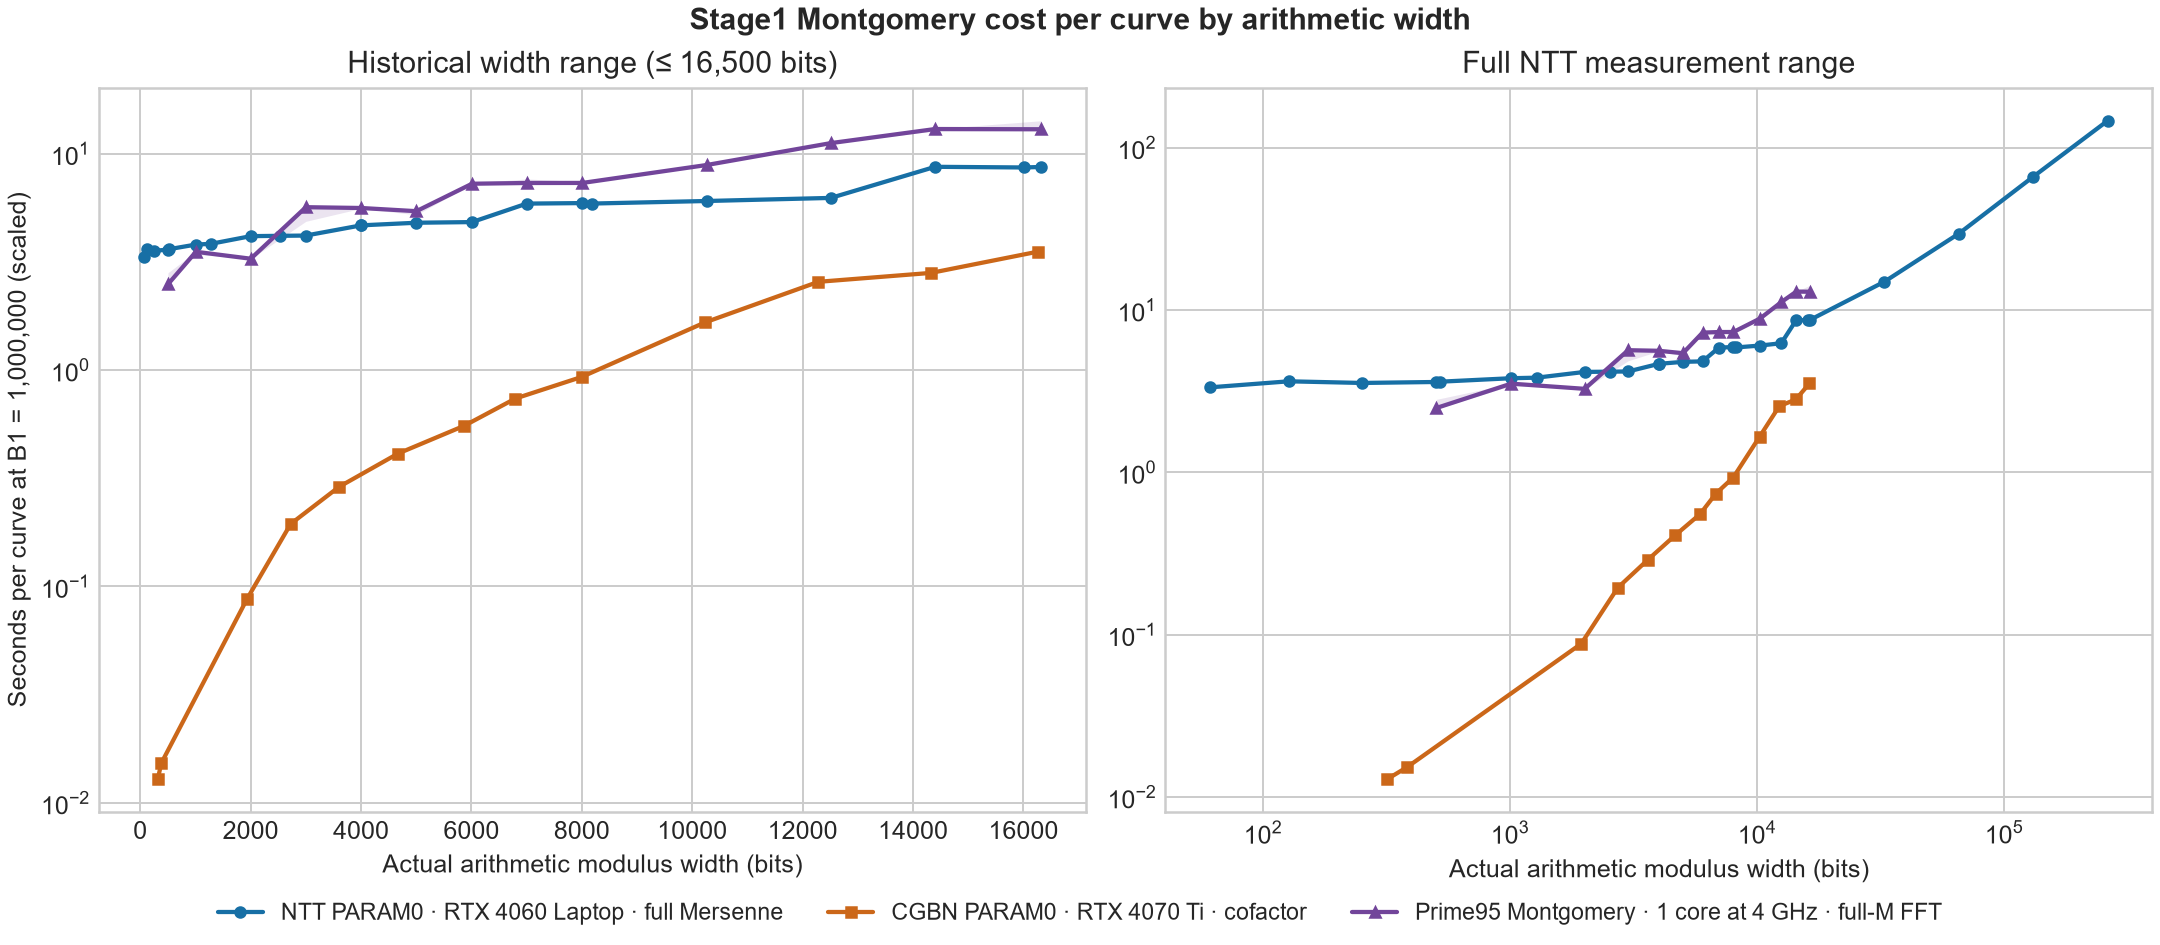
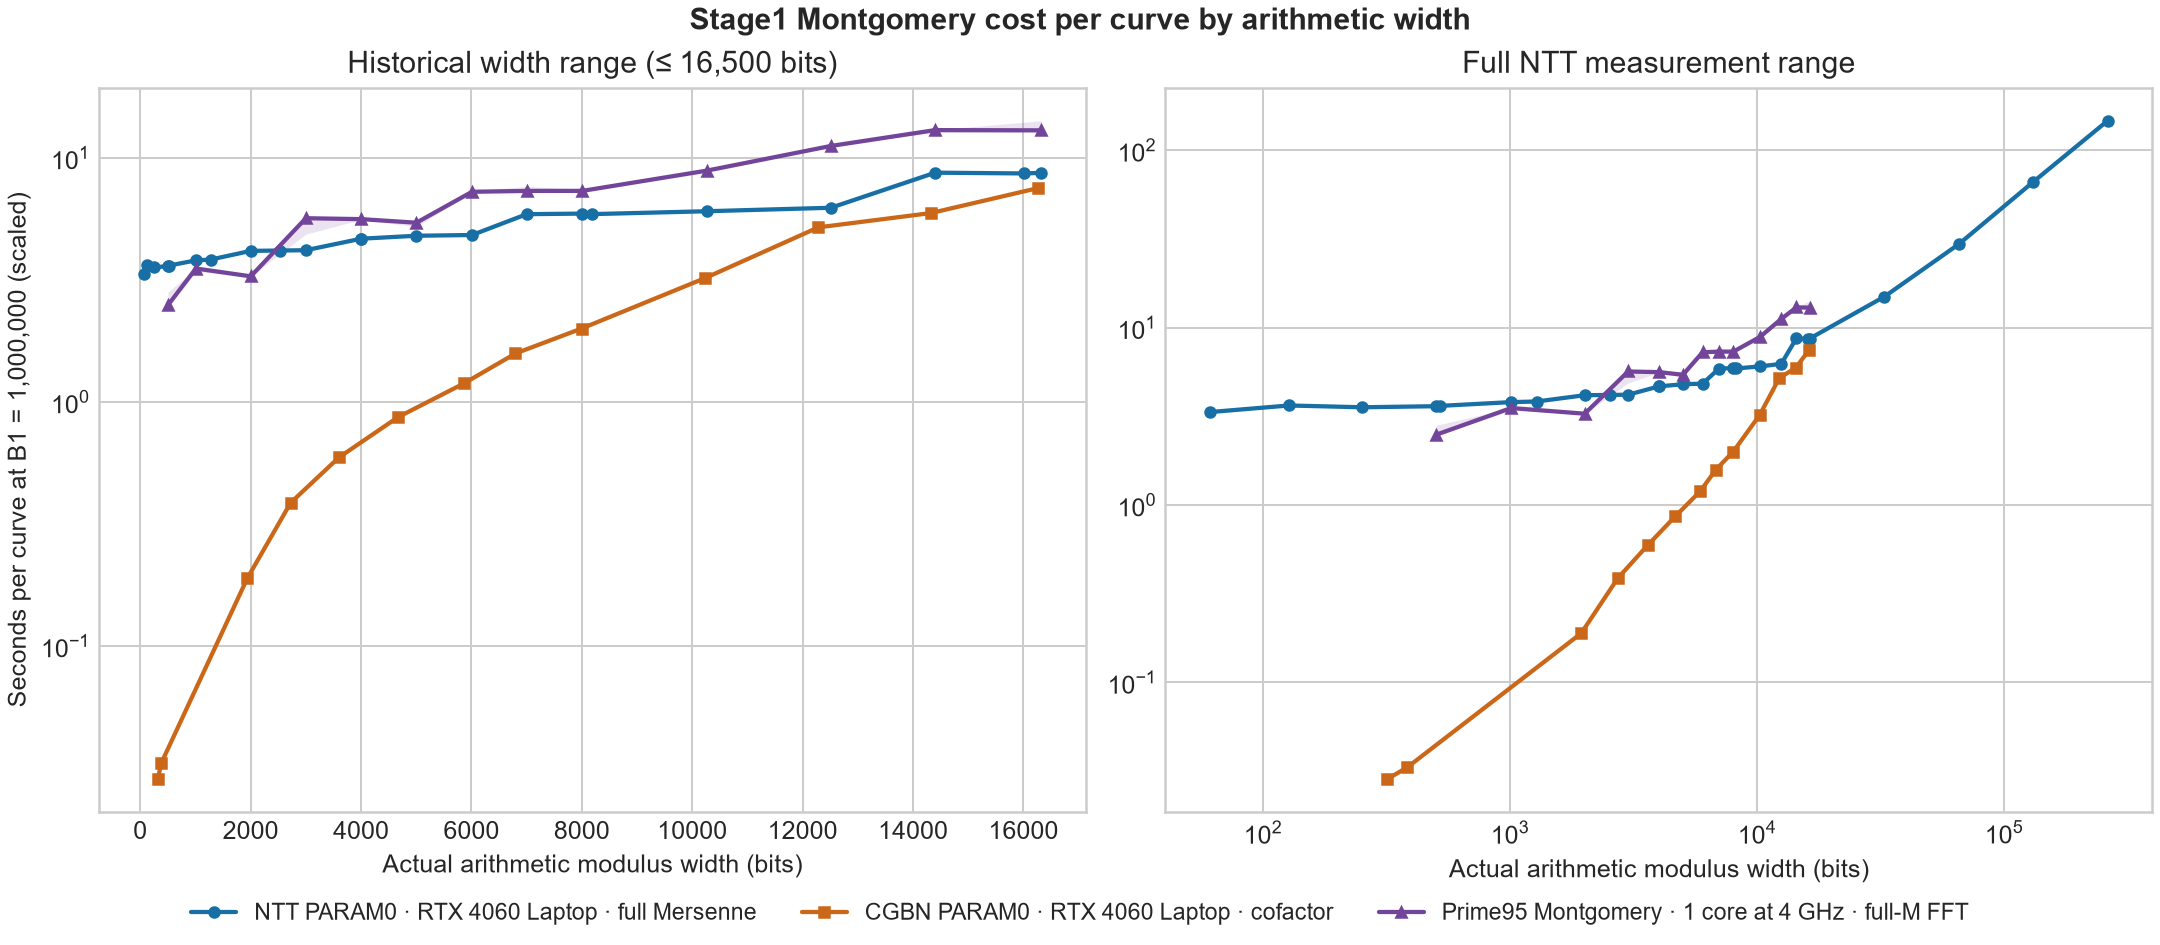
Compare Stage1 Edwards and Montgomery on RTX 4060

diff --git a/tools/bench/bench_stage1_ntt_best.py b/tools/bench/bench_stage1_ntt_best.py
@@ -1,5 +1,5 @@
 #!/usr/bin/env python3
-"""Tune full Mersenne Stage1 shapes, freeze winners, then time real PARAM0 batches."""
+"""Tune full Mersenne Stage1 shapes, freeze winners, then time real GPU batches."""
 import argparse
 import json
 from pathlib import Path
@@ -13,6 +13,10 @@ from bench_stage1_ntt_production import EXPONENTS, GPU_FIELDS, records
 HISTORICAL_EXPONENTS = (503, 1009, 2003, 3001, 4001, 5003, 6011, 7001, 8011, 10267, 12511, 14401, 16319)
 
 
+class IncompleteBatch(RuntimeError):
+    pass
+
+
 def run(exe, work, config, flags, expression=None):
     work.mkdir()
     cfg = work / "ecm.toml"
@@ -22,6 +26,8 @@ def run(exe, work, config, flags, expression=None):
     log = work / "driver.log"
     log.write_text(result.stdout + result.stderr, encoding="utf-8")
     if result.returncode:
+        if "degenerate Atkin-Morain construction" in result.stderr:
+            raise IncompleteBatch(f"Degenerate Edwards construction. See {log}")
         raise RuntimeError(f"Stage1 failed. See {log}")
     return result.stdout
 
@@ -46,7 +52,10 @@ def measure(exe, work, config, p, b1, sigma, winner):
     fixed += "".join(f"ntt_{key} = {winner[field]}\n" for key, field in options.items())
     flags = ["-sigma", str(sigma), "-gpucurves", str(batch), "-save", "point.save", str(b1), str(b1)]
     log = run(exe, work, fixed, flags, f"2^{p}-1\n")
-    plan = dict(re.findall(r"(\w+)=([^ ]+)", re.search(r"stage1_ntt_plan: ([^\r\n]+)", log)[1]))
+    plan_line = re.search(r"stage1_ntt_plan: ([^\r\n]+)", log)
+    plan = dict(re.findall(r"(\w+)=([^ ]+)", plan_line[1])) if plan_line else {}
+    if int(plan.get("curves", 0)) < batch:
+        raise IncompleteBatch(f"Some lanes ended before the ladder. See {work / 'driver.log'}")
     if int(plan["curves"]) != batch or plan["convolution"] != mode:
         raise RuntimeError(f"Actual plan differs from the frozen batch. See {work / 'driver.log'}")
     expected = {"length": winner["length"], "bpw": winner["bpw"], "tile_layers": winner["tile"],
@@ -59,6 +68,10 @@ def measure(exe, work, config, p, b1, sigma, winner):
                        r" setup_ms=([.\d]+) readback_ms=([.\d]+) stopped=0", log)
     sample = dict(zip(("steps", "device_ms", "wall_ms", "setup_ms", "readback_ms"), map(float, fields.groups())))
     save = records(work / "point.save")
+    for identity in map(int, re.findall(r"Edwards identity: sigma=(\d+)", log)):
+        if identity in save:
+            raise RuntimeError(f"Unexpected save for Edwards identity {identity}")
+        save[identity] = (str(b1), "identity", "")
     if set(save) != set(range(sigma, sigma + batch)):
         raise RuntimeError(f"Missing saved curves. See {work / 'driver.log'}")
     return sample, save
@@ -69,6 +82,8 @@ def main():
     parser.add_argument("--exe", required=True, type=Path)
     parser.add_argument("--output", required=True, type=Path)
     parser.add_argument("--device", default=1, type=int)
+    parser.add_argument("--curve", choices=("mont", "ed"), default="mont")
+    parser.add_argument("--reuse-tune", type=Path, help="Use measured plans from a summary for the same GPU")
     parser.add_argument("--rounds", default=3, type=int)
     parser.add_argument("--sigma", default=20260922, type=int)
     parser.add_argument("--exponents", nargs="+", type=int, default=sorted(set(EXPONENTS + HISTORICAL_EXPONENTS)))
@@ -78,9 +93,18 @@ def main():
     exe, out = args.exe.resolve(strict=True), args.output.resolve()
     out.mkdir(parents=True)
     version = subprocess.check_output([str(exe), "--version"], cwd=out, text=True, timeout=30).strip()
-    config = f'[stage1]\ndevice = {args.device}\ngpu_algorithm = "ntt"\ncurve = "mont"\ngpu_param = 0\n' \
+    gpu_model = subprocess.check_output(["nvidia-smi", "-i", str(args.device), "--query-gpu=name",
+                                         "--format=csv,noheader"], text=True, timeout=10).strip()
+    plans = {}
+    if args.reuse_tune:
+        previous = json.loads(args.reuse_tune.read_text(encoding="utf-8"))
+        if previous["gpu_model"] != gpu_model or previous["device"] != args.device:
+            parser.error("reuse summary must match the selected GPU")
+        plans = {group["p"]: group["tune"] for group in previous["groups"]}
+    config = f'[stage1]\ndevice = {args.device}\ngpu_algorithm = "ntt"\ncurve = "{args.curve}"\ngpu_param = 0\n' \
              'lcm = "1"\nexp_cache = "off"\nlog_file = ""\nckpt_seconds = 0\n'
-    report = dict(version=version, device=args.device, sigma=args.sigma, rounds=args.rounds,
+    report = dict(version=version, device=args.device, gpu_model=gpu_model, curve=args.curve,
+                  sigma=args.sigma, rounds=args.rounds,
                   exponents=args.exponents, reference_b1=1000000, groups=[])
     with (out / "telemetry.csv").open("w", encoding="utf-8") as log:
         telemetry = subprocess.Popen(
@@ -90,19 +114,28 @@ def main():
             for p in args.exponents:
                 group = out / f"p{p}"
                 group.mkdir()
-                winner = tune(exe, group / "tune", config, p)
+                winner = plans.get(p) or tune(exe, group / "tune", config, p)
                 b1 = 1024 if p > 20000 or p < 128 else 10000
-                samples, reference = [], None
-                for index in range(args.rounds):
-                    sample, save = measure(exe, group / f"repeat{index + 1}", config, p, b1, args.sigma, winner)
-                    if reference is None:
-                        reference = save
+                batch = winner["batch"]
+                for attempt in range(8):
+                    sigma = args.sigma + batch * attempt
+                    run_group = group if attempt == 0 else group / f"seed{sigma}"
+                    run_group.mkdir(exist_ok=True)
+                    try:
+                        sample, reference = measure(exe, run_group / "repeat1", config, p, b1, sigma, winner)
+                    except IncompleteBatch:
+                        if args.curve != "ed" or attempt == 7:
+                            raise
+                        continue
+                    break
+                samples = [sample]
+                for index in range(2, args.rounds + 1):
+                    sample, save = measure(exe, run_group / f"repeat{index}", config, p, b1, sigma, winner)
                     if reference != save:
                         raise RuntimeError(f"Stage1 save differs across repeats for M{p}")
                     samples.append(sample)
-                batch = winner["batch"]
                 seconds = [s["device_ms"] / (1000 * batch) for s in samples]
-                report["groups"].append(dict(p=p, b1=b1, batch=batch, tune=winner, samples=samples,
+                report["groups"].append(dict(p=p, b1=b1, batch=batch, sigma=sigma, tune=winner, samples=samples,
                     measured_seconds_per_curve=statistics.median(seconds),
                     projected_seconds_per_curve_1e6=[s * report["reference_b1"] / b1 for s in seconds]))
                 (out / "summary.json").write_text(json.dumps(report, indent=2) + "\n", encoding="utf-8")

diff --git a/tools/bench/plot_stage1_ntt_best.py b/tools/bench/plot_stage1_ntt_best.py
@@ -18,6 +18,9 @@ def make_points(ntt, historical):
         raise ValueError("benchmark B1 projections differ")
     if sorted(g["p"] for g in ntt["groups"]) != sorted(ntt["exponents"]):
         raise ValueError("NTT benchmark is incomplete")
+    cgbn_exponents = [row["exponent"] for row in historical["rows"]]
+    if not cgbn_exponents or len(set(cgbn_exponents)) != len(cgbn_exponents) or historical.get("missing_cpu_reference_exponents"):
+        raise ValueError("CGBN and Prime95 reference conditions are incomplete or repeated")
     for group in ntt["groups"]:
         samples = group["projected_seconds_per_curve_1e6"]
         points["ntt"].append((group["p"], group["p"], statistics.median(samples), min(samples), max(samples)))
@@ -30,15 +33,17 @@ def make_points(ntt, historical):
     return {key: sorted(rows, key=lambda r: r[1]) for key, rows in points.items()}
 
 
-def plot(points, output, logarithmic):
+def plot(points, output, logarithmic, curve, device):
+    label = "Edwards" if curve == "ed" else "Montgomery"
+    scheme = "Edwards" if curve == "ed" else "PARAM0"
     styles = {
-        "ntt": ("NTT PARAM0 · RTX 4060 Laptop · full Mersenne", "#176fa5", "o"),
-        "cgbn": ("CGBN PARAM0 · RTX 4070 Ti · cofactor", "#cb6719", "s"),
-        "prime95": ("Prime95 Montgomery · 1 core at 4 GHz · full-M FFT", "#72459a", "^"),
+        "ntt": (f"NTT {scheme} · {device} · full Mersenne", "#176fa5", "o"),
+        "cgbn": (f"CGBN {scheme}{' NAF' if curve == 'ed' else ''} · {device} · cofactor", "#cb6719", "s"),
+        "prime95": (f"Prime95 {label} · 1 core at 4 GHz · full-M FFT", "#72459a", "^"),
     }
     with plt.style.context("seaborn-v0_8-whitegrid"):
         fig, axes = plt.subplots(1, 2, figsize=(12, 5.25), layout="constrained")
-        fig.suptitle("Stage1 Montgomery cost per curve by arithmetic width", fontweight="bold")
+        fig.suptitle(f"Stage1 {label} cost per curve by arithmetic width", fontweight="bold")
         for i, ax in enumerate(axes):
             ax.set_title(("Historical width range (≤ 16,500 bits)", "Full NTT measurement range")[i])
             for key, rows in points.items():
@@ -68,14 +73,19 @@ def plot(points, output, logarithmic):
 def main():
     parser = argparse.ArgumentParser(description=__doc__)
     parser.add_argument("--ntt", required=True, type=Path)
-    parser.add_argument("--historical", required=True, type=Path)
+    parser.add_argument("--comparison", "--historical", required=True, type=Path)
     parser.add_argument("--output", required=True, type=Path)
     args = parser.parse_args()
-    ntt, old = (json.loads(p.read_text(encoding="utf-8-sig")) for p in (args.ntt, args.historical))
-    points = make_points(ntt, old)
+    ntt, comparison = (json.loads(p.read_text(encoding="utf-8-sig")) for p in (args.ntt, args.comparison))
+    curve = ntt["curve"]
+    if ntt["gpu_model"] != comparison["gpu_model"] or comparison["model"] != ("ed" if curve == "ed" else "mont0"):
+        parser.error("CGBN and NTT must use the same GPU model and curve construction")
+    device = ntt["gpu_model"].removeprefix("NVIDIA GeForce ").removesuffix(" GPU")
+    points = make_points(ntt, comparison)
     args.output.mkdir(parents=True, exist_ok=True)
+    prefix = "stage1-edwards-ntt-cgbn-prime95" if curve == "ed" else "stage1-ntt-best-cgbn-prime95"
     for suffix in ("log", "linear"):
-        plot(points, args.output / f"stage1-ntt-best-cgbn-prime95-{suffix}.png", suffix == "log")
+        plot(points, args.output / f"{prefix}-{suffix}.png", suffix == "log", curve, device)
     with (args.output / "comparison.csv").open("w", encoding="utf-8", newline="") as f:
         writer = csv.writer(f)
         writer.writerow(("series", "mersenne_exponent", "arithmetic_bits", "median_s_per_curve_at_1e6",

diff --git a/tools/bench/analyze_stage1_gpu.py b/tools/bench/analyze_stage1_gpu.py
@@ -36,6 +36,12 @@ def exact_modulus(exponent, factors):
     return n
 
 
+def saved_batches(segment, legacy):
+    current = re.findall(r"Stage1 save: (.+?) \((\d+) saved curves\)", segment)
+    return [(path.replace("\\", "/").rsplit("/", 1)[-1], int(count))
+            for path, count in (current or legacy)]
+
+
 def parse_batches(text, references, sm_count):
     lines = text.splitlines()
     versions = re.findall(r"ECM-ELF ([0-9]+\.[0-9]+\.[0-9]+) \(Stage1\)", text)
@@ -91,8 +97,9 @@ def parse_batches(text, references, sm_count):
             raise ValueError("Expected NAF w6 / HWCD")
         if int(metrics["dictionary_bytes"]) != curves * (container // 8) * 4 * (1 << (window - 2)):
             raise ValueError("Dictionary allocation disagrees with geometry")
-        saves = re.findall(r"Edwards Stage1 save: (\S+) \((\d+) curves\)", segment)
-        if saves != [(f[4], str(curves))] or segment.count("Stage1 results: ") != 1:
+        saves = saved_batches(segment, re.findall(r"Edwards Stage1 save: (\S+) \((\d+) curves\)", segment))
+        identities = len(re.findall(r"Edwards identity: sigma=\d+", segment))
+        if saves != [(f[4], curves - identities)] or segment.count("Stage1 results: ") != 1:
             excluded.append(dict(exponent=exponent, start_line=start + 1,
                                  reason="batch save/publication completion not recorded"))
             continue
@@ -168,23 +175,22 @@ def parse_mont_batches(text, references, sm_count):
         n = exact_modulus(exponent, f[8].split(","))
         if n != exact_modulus(exponent, cpu["intended_known_factors"]):
             raise ValueError("CPU/GPU target integers differ")
-        if len(re.findall(r"queue_save: curve=mont param=0 B1=" + str(b1) + r"\b", segment)) != 1:
-            raise ValueError("Expected PARAM0 task")
         if segment.count("GPU: parametrization = Suyama param0") != 1:
             raise ValueError("Expected native Suyama PARAM0 confirmation")
         geometry = re.findall(r"GPU: CGBN<(\d+),\s*(\d+)> kernel, N is (\d+) bits \((\d+) blocks x (\d+) threads\)", segment)
         devices = re.findall(r"GPU: will use device (\d+): (.+), compute capability [\d.]+, (\d+) MPs\.", segment)
         times = re.findall(r"GPU stage1 returned: (\d+) gputime=([\d.]+) ms", segment)
-        saves = re.findall(r"Saved (\d+) Montgomery curve line\(s\) to (\S+)", segment)
+        saves = saved_batches(segment, [(path, count) for count, path in re.findall(
+            r"Saved (\d+) Montgomery curve line\(s\) to (\S+)", segment)])
         if len(geometry) != 1 or len(devices) != 1:
             raise ValueError("Missing or duplicated Montgomery geometry/device record")
         if len(times) != 1 or len(saves) != 1 or segment.count("Stage1 results: ") != 1:
             excluded.append(dict(exponent=exponent, start_line=start + 1,
                                  reason="batch timing/save/publication completion not recorded"))
             continue
-        if int(times[0][0]) != 0 or re.search(r"\bERROR\b|CGBN.*error|Stage1 stopped|checkpoint restored", segment, re.I):
+        if int(times[0][0]) not in (0, 1) or re.search(r"\bERROR\b|CGBN.*error|Stage1 stopped|checkpoint restored", segment, re.I):
             raise ValueError("Failed/stopped/restored batch cannot be a complete timing sample")
-        if int(saves[0][0]) != curves or saves[0][1].replace("\\", "/").rsplit("/", 1)[-1] != f[4]:
+        if saves[0] != (f[4], curves):
             raise ValueError("Completed save does not match task")
         tpi, container, bits, blocks, tpb = map(int, geometry[0])
         device, native_model, native_sms = devices[0]

diff --git a/tools/bench/bench_stage1_ntt_production.py b/tools/bench/bench_stage1_ntt_production.py
@@ -29,7 +29,7 @@ def records(path):
     saved = {}
     for line in path.read_text(encoding="utf-8").splitlines():
         fields = dict(part.strip().split("=", 1) for part in line.split(";") if "=" in part)
-        if fields.get("METHOD") == "ECM":
+        if fields.get("METHOD") in ("ECM", "ECM-EDWARDS-AM"):
             sigma = int(fields["SIGMA"])
             if sigma in saved:
                 raise ValueError(f"duplicate save sigma {sigma}: {path}")

diff --git a/docs/performance/STAGE1_MERSENNE_NTT.md b/docs/performance/STAGE1_MERSENNE_NTT.md
@@ -1,8 +1,8 @@
 # 少曲线全宽 NTT Stage1
 
-CUDA Stage1 的 NTT 后端可对完整梅森模数 `M=2^p−1` 运行 Suyama Montgomery PARAM0 Stage1。所有点坐标在 GPU 驻留，一条曲线也会将同层的独立乘法一起提交。GPU1 RTX 4060 Laptop 上，8191／16001 位的单曲线设备阶段短于本机 CGBN 对照；把 CGBN 批量提高到 192 条后，CGBN 的吞吐仍更高。新路径通过了 131071 位的整条曲线验算，超过所用生产 CGBN 对照的位宽范围。
+CUDA Stage1 的 NTT 后端可对完整梅森模数 `M=2^p−1` 运行 Suyama Montgomery PARAM0 和 Atkin–Morain Edwards。两种曲线共用设备上的 x-only 阶梯，一条曲线也会将同层的独立乘法一起提交。GPU1 RTX 4060 Laptop 上，8191／16001 位的 PARAM0 单曲线设备阶段短于本机 CGBN 对照。该对照的 CGBN 批量提高到 192 条后，CGBN 的吞吐更高。
 
-生产入口由 `gpu_algorithm = "ntt"` 启用，接受完整 `2^p−1`、PARAM0、`lcm(1…B1)` 或 `12·lcm(1…B1)` 和 1–32 条曲线。独立算术探针仍可输出未归一化的 X/Z，用于与 GMP 对拍。生产入口复用曲线构造、save、结果账本和 Stage2 交接。配置见 [Stage1 用法](../usage/STAGE1.md#cuda-全宽-ntt)。
+生产入口由 `gpu_algorithm = "ntt"` 启用，接受完整 `2^p−1` 和 1–32 条曲线。PARAM0 使用 `lcm(1…B1)` 或 `12·lcm(1…B1)`，Edwards 使用 `48·lcm(1…B1)` 并在 Montgomery 模型上计算。独立算术探针仍可输出未归一化的 X/Z，用于与 GMP 对拍。生产入口复用曲线构造、save、结果账本和 Stage2 交接。配置见 [Stage1 用法](../usage/STAGE1.md#cuda-全宽-ntt)。
 
 ## 批量调优与显存
 
@@ -40,7 +40,9 @@ M4423、B1=32 的 16／32 条 PARAM0 保存点在两个后端均通过独立 Pyt
 
 78 个批次的实际计划与 tune 一致，逐组比较的三份存档中 sigma、B1、末点或因子及校验值均相同。对全部存档重算校验值，逐一确认日志中的因子整除对应梅森数且与存档一致。抽查首条曲线，M127 和 M7001 的末点与 ECM-ELF CPU scalar 一致，M262139 的末点与 GMP-ECM 7.0.5 一致。
 
-原始调优表、三轮运行日志、save、遥测和汇总保存在 `data/experiments/stage1_ntt_best_matrix_0599/`（M7001 起的运行在 `continuation/`），绘图汇总保存在 `data/figures/stage1_ntt_best_matrix_0599/`。复测可运行 `python tools/bench/bench_stage1_ntt_best.py --exe <ecm_cuda.exe> --device 1 --output <新实验目录>`。绘图脚本接收该实验的 `summary.json`，以及 `data/benchmarks/stage1_gpu_0_52_2_20261024/mont0_4070ti_02/summary.json`。见 [矩阵采集脚本](../../tools/bench/bench_stage1_ntt_best.py)、[绘图脚本](../../tools/bench/plot_stage1_ntt_best.py) 和 [三后端比较图](STAGE2.md#stage1-ntt-与-cgbn-和-prime95-对比)。
+Edwards 用 0.60.0 在同一 GPU 上复用这 26 组实测计划，各跑三次。三轮存档逐组一致，全部校验值和因子整除关系均通过复核。折算中位数为 3.36–147.24 秒/曲线，各位宽与 PARAM0 的中位数相差至多 0.75%。262139 位在 B1=1024 实测 0.15077 秒/曲线。GPU 利用率至少 50% 的样本中，SM 为 1500 MHz，整卡功耗为 2.85–34.76 W（中位数 16.72 W），温度为 41–52 °C。原始运行与计划位于 `data/experiments/stage1_unified_4060_0600/ed_ntt/`。
+
+原始调优表、三轮运行日志、save、遥测和汇总保存在 `data/experiments/stage1_ntt_best_matrix_0599/`（M7001 起的运行在 `continuation/`）。复测可运行 `python tools/bench/bench_stage1_ntt_best.py --exe <ecm_cuda.exe> --device 1 --output <新实验目录>`。Edwards 可传入 `--curve ed --reuse-tune <同一设备的 NTT 汇总>`，在原有阶梯参数下独立测量真实曲线。图表按曲线构造分别配对同设备的 CGBN。见 [矩阵采集脚本](../../tools/bench/bench_stage1_ntt_best.py)、[绘图脚本](../../tools/bench/plot_stage1_ntt_best.py) 和 [三后端比较图](STAGE1.md#stage1-ntt-与-cgbn-和-prime95-对比)。
 
 ## 实现与正确性
 
@@ -185,7 +187,7 @@ NTT event 包含驻留点乘、打包、变换、进位、折叠及 Graph 窗口
 
 - Prime95 31.06b01 的 `ecm.cpp`（约 1982–2156 行）利用延迟 FFT、变换保留和融合乘加减少点公式的重复 FFT；可借鉴调度与数据流，不能直接套用它的浮点时序。当前 NTT 实现把每个产品归一化后再进入下一层，后续可测量归约与下一次打包或变换的融合收益。
 - GPUOWL 本地 `.refactor/gpuowl/src/fftbpw.h` 和 `src/cl/carryutil.cl` 用有效位宽、舍入误差门槛和进位来约束 iBDWT。加权循环后端已采用单 Goldilocks 域和整数系数界。可在相同 ECM 输入上继续验证混合 radix 与变换状态复用，再比较其他数域或浮点重构。
-- 完整梅森模数才可直接按第 p 位回卷。对已剔除因子的余因子，可研究把模余因子构造的值提升到完整梅森承载环，再按实际余因子验证/GCD；通用整数则需要非二次复杂度归约。两者均未接入。PRAC 或 Edwards 的整曲线成本还需分别评估。
+- 完整梅森模数可直接按第 p 位回卷。对已剔除因子的余因子，可研究把模余因子构造的值提升到完整梅森承载环，再按实际余因子验证/GCD。通用整数需要独立归约。PRAC 的整曲线成本仍待评估。
 
 ## 复现
 
